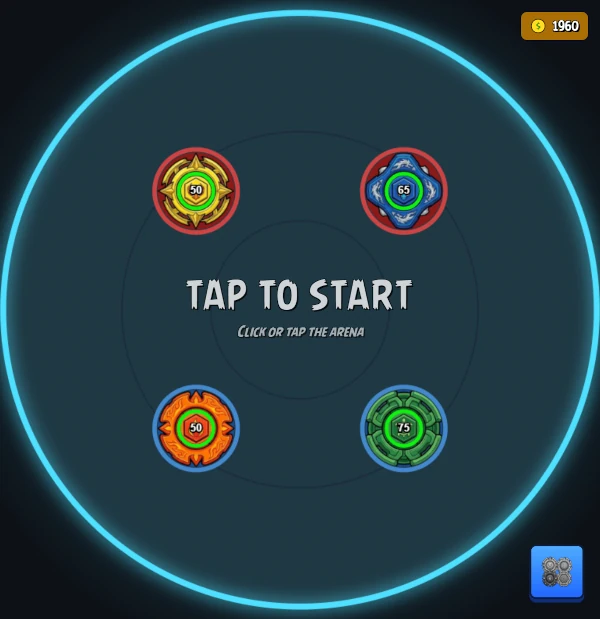
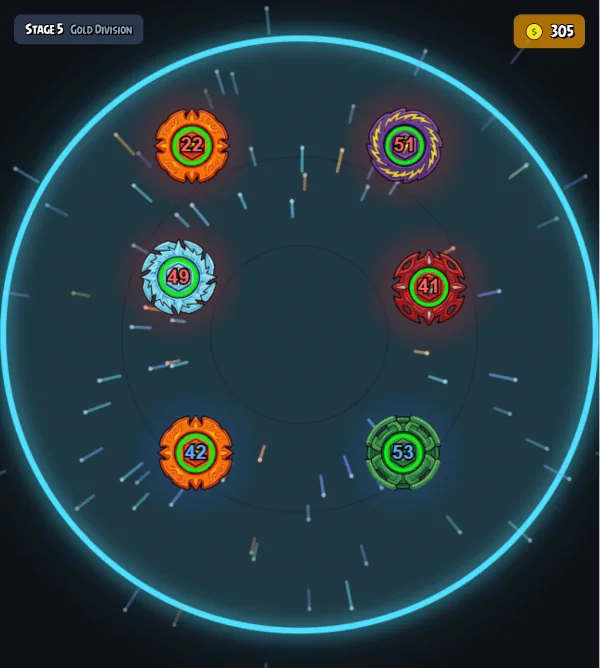
- fix tab issue - add boss battles every 5 stages with different arena design

diff --git a/src/use/useBaybladeCampaign.ts b/src/use/useBaybladeCampaign.ts
@@ -10,11 +10,13 @@ export interface StageBladeConfig {
   topLevel: number
   bottomLevel: number
   modelId?: string
+  isBoss?: boolean
 }
 
 export interface Stage {
   id: number
   name: string
+  isBoss?: boolean
   enemyTeam: StageBladeConfig[]
   rewardWin: number
   rewardLose: number
@@ -58,14 +60,11 @@ export const STAGES: Stage[] = [
     rewardWin: 110, rewardLose: 35
   },
   {
-    id: 5, name: 'Gold Division',
+    id: 5, name: 'The Iron Titan', isBoss: true,
     enemyTeam: [
-      { topPartId: 'star', bottomPartId: 'speedy', topLevel: 1, bottomLevel: 1, modelId: 'fire' },
-      { topPartId: 'triangle', bottomPartId: 'tanky', topLevel: 1, bottomLevel: 1, modelId: 'thunder' },
-      { topPartId: 'round', bottomPartId: 'balanced', topLevel: 1, bottomLevel: 0, modelId: 'ice' },
-      { topPartId: 'cushioned', bottomPartId: 'speedy', topLevel: 0, bottomLevel: 1, modelId: 'wulf' }
+      { topPartId: 'cushioned', bottomPartId: 'tanky', topLevel: 3, bottomLevel: 3, modelId: 'castle', isBoss: true }
     ],
-    rewardWin: 130, rewardLose: 40
+    rewardWin: 200, rewardLose: 50
   },
 
   // ── Mid Game (6-10): enemies start upgrading ──────────────────────────────
@@ -104,14 +103,11 @@ export const STAGES: Stage[] = [
     rewardWin: 200, rewardLose: 60
   },
   {
-    id: 10, name: 'Warlord\'s Keep',
+    id: 10, name: 'The Storm Warlord', isBoss: true,
     enemyTeam: [
-      { topPartId: 'star', bottomPartId: 'speedy', topLevel: 4, bottomLevel: 3, modelId: 'scorpion' },
-      { topPartId: 'star', bottomPartId: 'tanky', topLevel: 3, bottomLevel: 4, modelId: 'thunderstorm' },
-      { topPartId: 'triangle', bottomPartId: 'speedy', topLevel: 3, bottomLevel: 2, modelId: 'snake' },
-      { topPartId: 'round', bottomPartId: 'tanky', topLevel: 2, bottomLevel: 3, modelId: 'prisma' }
+      { topPartId: 'star', bottomPartId: 'speedy', topLevel: 5, bottomLevel: 5, modelId: 'thunderstorm', isBoss: true }
     ],
-    rewardWin: 250, rewardLose: 70
+    rewardWin: 350, rewardLose: 90
   },
 
   // ── Late Game (11-15): tougher combos ─────────────────────────────────────
@@ -150,14 +146,11 @@ export const STAGES: Stage[] = [
     rewardWin: 230, rewardLose: 70
   },
   {
-    id: 15, name: 'Serpent\'s Nest',
+    id: 15, name: 'The Venom King', isBoss: true,
     enemyTeam: [
-      { topPartId: 'star', bottomPartId: 'speedy', topLevel: 5, bottomLevel: 4, modelId: 'snake' },
-      { topPartId: 'triangle', bottomPartId: 'speedy', topLevel: 4, bottomLevel: 4, modelId: 'scorpion' },
-      { topPartId: 'round', bottomPartId: 'tanky', topLevel: 4, bottomLevel: 4, modelId: 'prisma' },
-      { topPartId: 'cushioned', bottomPartId: 'balanced', topLevel: 3, bottomLevel: 3, modelId: 'wulf' }
+      { topPartId: 'triangle', bottomPartId: 'speedy', topLevel: 6, bottomLevel: 6, modelId: 'snake', isBoss: true }
     ],
-    rewardWin: 280, rewardLose: 80
+    rewardWin: 400, rewardLose: 100
   },
 
   // ── End Game (16-20): high upgrades ───────────────────────────────────────
@@ -196,14 +189,11 @@ export const STAGES: Stage[] = [
     rewardWin: 280, rewardLose: 85
   },
   {
-    id: 20, name: 'Dragon\'s Throne',
+    id: 20, name: 'The Dragon Lord', isBoss: true,
     enemyTeam: [
-      { topPartId: 'star', bottomPartId: 'speedy', topLevel: 6, bottomLevel: 6, modelId: 'scorpion' },
-      { topPartId: 'star', bottomPartId: 'tanky', topLevel: 5, bottomLevel: 6, modelId: 'fire' },
-      { topPartId: 'triangle', bottomPartId: 'speedy', topLevel: 6, bottomLevel: 5, modelId: 'snake' },
-      { topPartId: 'round', bottomPartId: 'tanky', topLevel: 5, bottomLevel: 6, modelId: 'castle' }
+      { topPartId: 'star', bottomPartId: 'tanky', topLevel: 7, bottomLevel: 7, modelId: 'bluedragon', isBoss: true }
     ],
-    rewardWin: 350, rewardLose: 100
+    rewardWin: 500, rewardLose: 120
   },
 
   // ── Master Tier (21-25): punishing encounters ─────────────────────────────
@@ -242,14 +232,11 @@ export const STAGES: Stage[] = [
     rewardWin: 340, rewardLose: 100
   },
   {
-    id: 25, name: 'Apocalypse Ring',
+    id: 25, name: 'The Phoenix Emperor', isBoss: true,
     enemyTeam: [
-      { topPartId: 'star', bottomPartId: 'speedy', topLevel: 8, bottomLevel: 7, modelId: 'scorpion' },
-      { topPartId: 'star', bottomPartId: 'tanky', topLevel: 7, bottomLevel: 8, modelId: 'thunderstorm' },
-      { topPartId: 'triangle', bottomPartId: 'speedy', topLevel: 7, bottomLevel: 7, modelId: 'bluedragon' },
-      { topPartId: 'round', bottomPartId: 'tanky', topLevel: 7, bottomLevel: 7, modelId: 'castle' }
+      { topPartId: 'star', bottomPartId: 'balanced', topLevel: 9, bottomLevel: 9, modelId: 'phoenix', isBoss: true }
     ],
-    rewardWin: 400, rewardLose: 110
+    rewardWin: 600, rewardLose: 140
   },
 
   // ── Legendary Tier (26-30): ultimate challenges ───────────────────────────
@@ -288,14 +275,11 @@ export const STAGES: Stage[] = [
     rewardWin: 420, rewardLose: 120
   },
   {
-    id: 30, name: 'Final Chaos',
+    id: 30, name: 'Chaos Incarnate', isBoss: true,
     enemyTeam: [
-      { topPartId: 'star', bottomPartId: 'speedy', topLevel: 10, bottomLevel: 9, modelId: 'fire' },
-      { topPartId: 'star', bottomPartId: 'tanky', topLevel: 9, bottomLevel: 10, modelId: 'thunderstorm' },
-      { topPartId: 'triangle', bottomPartId: 'speedy', topLevel: 10, bottomLevel: 9, modelId: 'scorpion' },
-      { topPartId: 'cushioned', bottomPartId: 'tanky', topLevel: 9, bottomLevel: 10, modelId: 'castle' }
+      { topPartId: 'star', bottomPartId: 'speedy', topLevel: 12, bottomLevel: 12, modelId: 'fire', isBoss: true }
     ],
-    rewardWin: 500, rewardLose: 150
+    rewardWin: 800, rewardLose: 200
   }
 ]
 

diff --git a/src/use/useBaybladeGame.ts b/src/use/useBaybladeGame.ts
@@ -98,6 +98,7 @@ export const useBaybladeGame = () => {
   const phase: Ref<GamePhase> = ref('idle')
   const gameResult: Ref<GameResult> = ref(null)
   const turnAnnouncement: Ref<string> = ref('')
+  const isBossStage: Ref<boolean> = ref(false)
 
   // ── Blade Arrays (2 per side) ────────────────────────────────────────────
   const playerBlades: Ref<BaybladeState[]> = ref([])
@@ -299,24 +300,28 @@ export const useBaybladeGame = () => {
   function createBladeState(
     owner: 'player' | 'npc',
     x: number, y: number,
-    config: BaybladeConfig
+    config: BaybladeConfig,
+    isBoss = false
   ): BaybladeState {
     const stats = computeStats(config, config.topLevel ?? 0, config.bottomLevel ?? 0)
+    const bossHpMultiplier = isBoss ? 3 : 1
+    const bossRadius = isBoss ? BLADE_RADIUS * 1.6 : BLADE_RADIUS
     return {
       id: nextBladeId++,
       x, y,
       vx: 0, vy: 0,
       ax: 0, ay: 0,
       accelFramesLeft: 0,
-      radius: BLADE_RADIUS,
-      hp: stats.maxHp,
-      maxHp: stats.maxHp,
+      radius: bossRadius,
+      hp: stats.maxHp * bossHpMultiplier,
+      maxHp: stats.maxHp * bossHpMultiplier,
       rotation: 0,
-      rotationSpeed: 0.05,
+      rotationSpeed: isBoss ? 0.03 : 0.05,
       hitFlash: 0,
       wallBounceCount: 0,
       config,
-      owner
+      owner,
+      isBoss
     }
   }
 
@@ -392,8 +397,10 @@ export const useBaybladeGame = () => {
     }
 
     npcBlades.value = nTeam.map((cfg, i) =>
-      createBladeState('npc', npcPositions[i]!.x, npcPositions[i]!.y, cfg)
+      createBladeState('npc', npcPositions[i]!.x, npcPositions[i]!.y, cfg, cfg.isBoss)
     )
+
+    isBossStage.value = nTeam.some(cfg => cfg.isBoss)
 
     isDragging.value = false
     selectedBladeId.value = null
@@ -1085,33 +1092,57 @@ export const useBaybladeGame = () => {
   }
 
   const renderArena = (ctx: CanvasRenderingContext2D) => {
-    ctx.fillStyle = '#161b22'
+    const boss = isBossStage.value
+    const neonColor = boss ? '#ff4444' : '#4fdfff'
+    const neonRgba = boss ? 'rgba(255, 60, 40,' : 'rgba(79, 223, 255,'
+
+    // Arena floor
+    if (boss) {
+      const floorGrad = ctx.createRadialGradient(0, 0, 0, 0, 0, ARENA_RADIUS)
+      floorGrad.addColorStop(0, '#2a1010')
+      floorGrad.addColorStop(1, '#1a0808')
+      ctx.fillStyle = floorGrad
+    } else {
+      ctx.fillStyle = '#161b22'
+    }
     ctx.beginPath()
     ctx.arc(0, 0, ARENA_RADIUS, 0, Math.PI * 2)
     ctx.fill()
 
-    // Outer glow halo — soft radial gradient so the neon doesn't clip at canvas edge
+    // Boss: pulsating inner glow
+    if (boss) {
+      const pulse = 0.3 + 0.2 * Math.sin(performance.now() * 0.002)
+      const innerGlow = ctx.createRadialGradient(0, 0, 0, 0, 0, ARENA_RADIUS * 0.7)
+      innerGlow.addColorStop(0, `rgba(255, 40, 20, ${pulse * 0.15})`)
+      innerGlow.addColorStop(1, 'rgba(255, 40, 20, 0)')
+      ctx.fillStyle = innerGlow
+      ctx.beginPath()
+      ctx.arc(0, 0, ARENA_RADIUS * 0.7, 0, Math.PI * 2)
+      ctx.fill()
+    }
+
+    // Outer glow halo
     const glowGrad = ctx.createRadialGradient(0, 0, ARENA_RADIUS - 2, 0, 0, ARENA_RADIUS + 40)
-    glowGrad.addColorStop(0, 'rgba(79, 223, 255, 0.15)')
-    glowGrad.addColorStop(0.4, 'rgba(79, 223, 255, 0.05)')
-    glowGrad.addColorStop(1, 'rgba(79, 223, 255, 0)')
+    glowGrad.addColorStop(0, `${neonRgba} 0.15)`)
+    glowGrad.addColorStop(0.4, `${neonRgba} 0.05)`)
+    glowGrad.addColorStop(1, `${neonRgba} 0)`)
     ctx.fillStyle = glowGrad
     ctx.beginPath()
     ctx.arc(0, 0, ARENA_RADIUS + 40, 0, Math.PI * 2)
     ctx.fill()
 
-    // Neon border — glows to hint at wall-boost mechanic
-    ctx.strokeStyle = '#4fdfff'
-    ctx.lineWidth = 4
-    ctx.shadowColor = '#4fdfff'
-    ctx.shadowBlur = 20
+    // Neon border
+    ctx.strokeStyle = neonColor
+    ctx.lineWidth = boss ? 5 : 4
+    ctx.shadowColor = neonColor
+    ctx.shadowBlur = boss ? 30 : 20
     ctx.beginPath()
     ctx.arc(0, 0, ARENA_RADIUS, 0, Math.PI * 2)
     ctx.stroke()
     ctx.shadowBlur = 0
 
     // Inner rings
-    ctx.strokeStyle = '#1c2a3d'
+    ctx.strokeStyle = boss ? '#3a1515' : '#1c2a3d'
     ctx.lineWidth = 1
     ctx.beginPath()
     ctx.arc(0, 0, ARENA_RADIUS * 0.6, 0, Math.PI * 2)
@@ -1152,6 +1183,26 @@ export const useBaybladeGame = () => {
 
   const renderAura = (ctx: CanvasRenderingContext2D, blade: BaybladeState) => {
     const isPlayer = blade.owner === 'player'
+
+    if (blade.isBoss) {
+      // Boss: large fiery pulsating aura
+      const pulse = 0.5 + 0.5 * Math.sin(performance.now() * 0.003)
+      const auraRadius = blade.radius * 2.2
+      const grad = ctx.createRadialGradient(
+        blade.x, blade.y, blade.radius * 0.4,
+        blade.x, blade.y, auraRadius
+      )
+      grad.addColorStop(0, `rgba(255, 80, 20, ${0.8 * pulse})`)
+      grad.addColorStop(0.3, `rgba(255, 40, 10, ${0.5 * pulse})`)
+      grad.addColorStop(0.6, `rgba(180, 20, 5, ${0.3 * pulse})`)
+      grad.addColorStop(1, 'rgba(120, 10, 0, 0)')
+      ctx.fillStyle = grad
+      ctx.beginPath()
+      ctx.arc(blade.x, blade.y, auraRadius, 0, Math.PI * 2)
+      ctx.fill()
+      return
+    }
+
     // Player aura pulsates, NPC aura is steady
     const pulse = isPlayer
       ? 0.4 + 0.6 * (0.5 + 0.5 * Math.sin(performance.now() * 0.004))
@@ -1482,6 +1533,7 @@ export const useBaybladeGame = () => {
     dragCurrent,
     dragForceRatio,
     meteorParticles,
+    isBossStage,
 
     initGame,
     startMatch,

diff --git a/src/views/BaybladeArena.vue b/src/views/BaybladeArena.vue
@@ -63,7 +63,8 @@ const stageNpcTeam = (): BaybladeConfig[] =>
     bottomPartId: e.bottomPartId,
     topLevel: e.topLevel,
     bottomLevel: e.bottomLevel,
-    modelId: e.modelId
+    modelId: e.modelId,
+    isBoss: e.isBoss
   }))
 
 /** Player team with current upgrade levels applied */
@@ -255,10 +256,17 @@ onUnmounted(() => {
       div.flex.justify-between.items-start.p-3(class="sm:p-4")
         //- Stage indicator
         div.flex.items-center.gap-2.rounded-lg.text-white.font-bold(
-          class="px-3 py-1.5 bg-slate-700/80 text-xs sm:text-sm"
+          :class="[\
+            'px-3 py-1.5 text-xs sm:text-sm',\
+            currentStage.isBoss ? 'bg-red-900/90 border border-red-500/50' : 'bg-slate-700/80'\
+          ]"
         )
-          span.game-text Stage {{ currentStageId }}
-          span.text-slate-400.game-text(class="text-[10px] sm:text-xs") {{ currentStage.name }}
+          span.game-text(
+            :class="currentStage.isBoss ? 'text-red-300' : ''"
+          ) {{ currentStage.isBoss ? 'BOSS' : 'Stage' }} {{ currentStageId }}
+          span.game-text(
+            :class="currentStage.isBoss ? 'text-red-400 text-[10px] sm:text-xs' : 'text-slate-400 text-[10px] sm:text-xs'"
+          ) {{ currentStage.name }}
         //- Coin counter
         div.flex.items-center.gap-2.rounded-lg.text-white.font-bold(
           class="px-3 py-1.5 bg-yellow-600/80 text-sm sm:text-base"

diff --git a/src/components/organisms/BaybladeConfigModal.vue b/src/components/organisms/BaybladeConfigModal.vue
@@ -44,18 +44,13 @@ const bladeTabs = computed<TabOption[]>(() =>
 
 const localTeam: Ref<BaybladeConfig[]> = ref([])
 
-// Sync when modal opens / props change
-watch(() => props.initialTeam, (team) => {
-  localTeam.value = team.map(c => ({ ...c }))
-  activeBladeIndex.value = 0
-}, { immediate: true })
-
+// Sync only when modal opens (not on every prop change, which would reset the tab)
 watch(() => props.modelValue, (open) => {
   if (open) {
     localTeam.value = props.initialTeam.map(c => ({ ...c }))
     activeBladeIndex.value = 0
   }
-})
+}, { immediate: true })
 
 // ─── Current Blade Being Edited ────────────────────────────────────────────
 

diff --git a/src/types/bayblade.ts b/src/types/bayblade.ts
@@ -46,6 +46,7 @@ export interface BaybladeConfig {
   topLevel?: number
   bottomLevel?: number
   modelId?: string
+  isBoss?: boolean
 }
 
 export interface BaybladeStats {
@@ -80,6 +81,7 @@ export interface BaybladeState {
   wallBounceCount: number
   config: BaybladeConfig
   owner: 'player' | 'npc'
+  isBoss: boolean
 }
 
 // ─── Meteor Shower Particle ──────────────────────────────────────────────────

diff --git a/src/use/useCheats.ts b/src/use/useCheats.ts
@@ -105,7 +105,7 @@ const useCheats = () => {
     'ctrl+shift+7': () => setBaybladeStage(7),
     'ctrl+shift+8': () => setBaybladeStage(8),
     'ctrl+shift+9': () => setBaybladeStage(9),
-    'ctrl+shift+0': () => setBaybladeStage(10),
+    'ctrl+shift+p': () => setBaybladeStage(10),
     'ctrl+shift+alt+1': () => setBaybladeStage(11),
     'ctrl+shift+alt+2': () => setBaybladeStage(12),
     'ctrl+shift+alt+3': () => setBaybladeStage(13),
